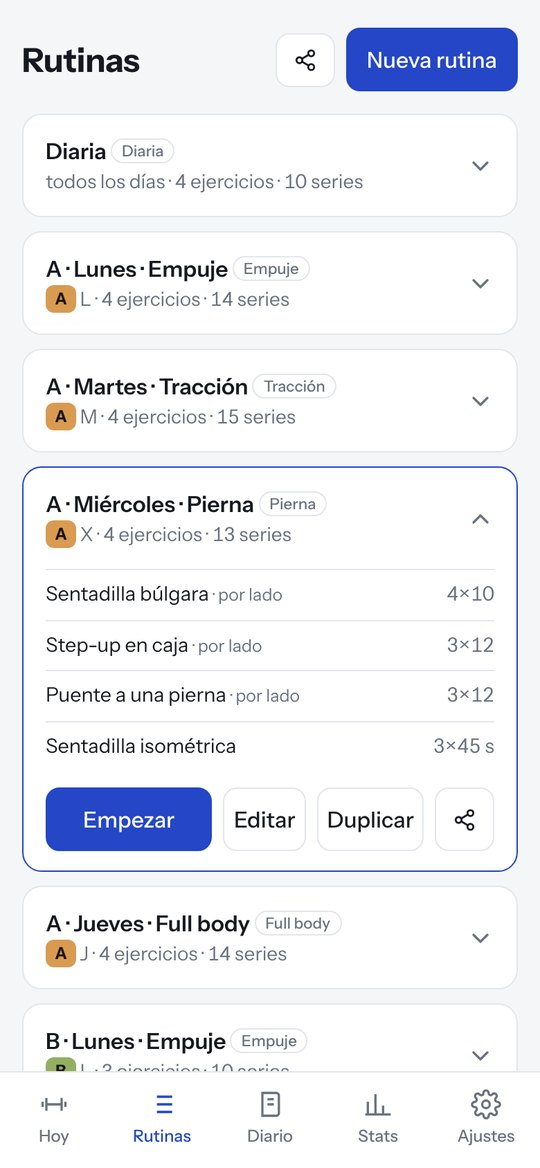
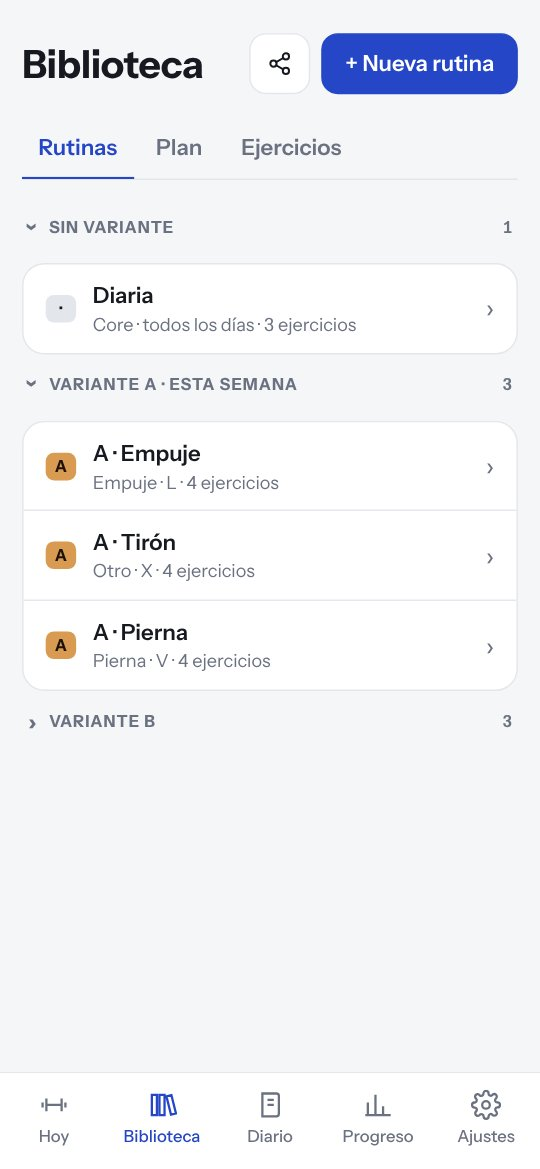
3.0.0: README con capturas nuevas y CHANGELOG con fecha
Capturas con datos de ejemplo (diseño 3.0) y textos de Hoy, Entrenar, Diario y
Progreso al día.

Hecha con IA · probada por humanos.

diff --git a/README.md b/README.md
@@ -2,7 +2,7 @@
 
 **Castellano** · [English](#english)
 
-<p align="center"><img src="capturas/portada.jpg" alt="Usus: Hoy, cuenta atrás, Diario y Estadísticas" width="100%"></p>
+<p align="center"><img src="capturas/portada.jpg" alt="Usus: Hoy, cuenta atrás, Diario y Progreso" width="100%"></p>
 
 **Usus** (latín: *práctica, hábito*) es una app para registrar tus entrenamientos y tus hábitos desde el móvil. Pensada para calistenia y entrenamiento en casa, sirve para cualquier rutina de series y repeticiones.
 
@@ -39,13 +39,13 @@ Para probar la beta con tus datos, exporta una copia en la versión normal e imp
 
 ## Cómo funciona
 
-- **Rutinas.** Creas tus rutinas con sus ejercicios, series y repeticiones o tiempo. Puedes marcar ejercicios «por lado», poner lastre y un descanso propio a cada uno. Si quieres, las ordenas por secciones (calentamiento, principal, core, vuelta a la calma) y agrupas ejercicios en superseries o circuitos. En el ordenador o la tablet hay un **modo edición para pantalla grande**: cada ejercicio en una fila y el catálogo al lado. Cada rutina se puede imprimir o guardar en PDF: una hoja por ejercicio para seguir su progresión, o la rutina entera con varias sesiones.
+- **Biblioteca: rutinas.** Creas tus rutinas con sus ejercicios, series y repeticiones o tiempo. Puedes marcar ejercicios «por lado», poner lastre y un descanso propio a cada uno. Si quieres, las ordenas por secciones (calentamiento, principal, core, vuelta a la calma) y agrupas ejercicios en superseries o circuitos. En el ordenador o la tablet hay un **modo edición para pantalla grande**: cada ejercicio en una fila y el catálogo al lado. Cada rutina se puede imprimir o guardar en PDF: una hoja por ejercicio para seguir su progresión, o la rutina entera con varias sesiones.
 - **Ejercicios** *(opcional).* Un catálogo de ejercicios de calistenia, cada uno con su ficha: para qué sirve, cómo se hace, errores típicos, material necesario y progresión, del más fácil al más difícil. Se elige ejercicio al crear la rutina y se ve la ficha en cualquier momento, también entrenando.
 - **Progresión.** Al terminar una sesión, Usus te propone pasar al siguiente ejercicio cuando dominas el actual, o volver al anterior si te está costando demasiado. Siempre es una propuesta: decides tú.
-- **Hoy.** Te dice qué toca cada día. Con un plan de progresión, Usus rota las variantes de tus rutinas por semanas (A, B, C…), añade semanas de descarga y te avisa de lo pendiente. Si quieres, la subida de cada vuelta de variante se aplica sola, con aviso y opción de deshacer.
-- **Entrenar.** Un ejercicio por pantalla. Las series por tiempo y los descansos tienen cuenta atrás a pantalla completa con reglas sencillas (preparación, aviso final, cambio de lado y descansos), tres sonidos suaves (tic, inicio, fin), vibración o nada, y se pueden encadenar solas. La pantalla se mantiene encendida durante la sesión. Puedes cambiar un ejercicio sobre la marcha, anotar cada uno y valorar el esfuerzo de la sesión (y, si quieres, las repeticiones en reserva de cada serie).
-- **Diario.** Sueño, suplementos, pasos, peso, actividad (caminar, correr, bici…) y notas. Solo se ve lo que has anotado; lo demás se añade con un toque.
-- **Progreso.** Constancia, récords, progreso por ejercicio, equilibrio entre lados y hábitos, en bloques que puedes ordenar u ocultar. Los días con notas llevan un punto: tócalo y ves por qué (no entrenaste, molestias, un cambio de ejercicio…).
+- **Hoy.** Te dice qué toca. Con un plan de progresión (Biblioteca → Plan), Usus rota las variantes de tus rutinas (A, B, C…) **en orden**: toca la siguiente sesión que falte, sea el día que sea, así que si empiezas un domingo o te saltas un día, se recupera. Añade semanas de descarga, se puede pausar una o varias semanas y, si quieres, la subida de cada vuelta de variante se aplica sola, con aviso y opción de deshacer.
+- **Entrenar.** Un ejercicio por pantalla, con el tiempo y el avance siempre arriba y un botón abajo con lo que toca: marcar la serie, empezar la cuenta atrás, pasar al siguiente ejercicio o terminar. Las series por tiempo y los descansos tienen cuenta atrás a pantalla completa con reglas sencillas (preparación, aviso final, cambio de lado y descansos), tres sonidos suaves (tic, inicio, fin), vibración o nada, y se pueden encadenar solas. La pantalla se mantiene encendida durante la sesión. Puedes cambiar un ejercicio sobre la marcha, anotar cada uno y valorar el esfuerzo de la sesión (y, si quieres, las repeticiones en reserva de cada serie).
+- **Diario.** Sueño, suplementos, pasos, peso, actividad (caminar, correr, bici…) y notas, un dato por fila. Solo se ve lo que has anotado; lo demás se añade con un toque.
+- **Progreso.** Un resumen con la semana, la constancia, los récords y el peso; y en detalle, progreso por ejercicio, equilibrio entre lados, cuerpo y hábitos, en bloques que puedes ordenar u ocultar. Los días con notas llevan un punto: tócalo y ves por qué (no entrenaste, molestias, un cambio de ejercicio…).
 - **Análisis con IA** *(opcional, externa).* Usus prepara un texto con tus datos y las instrucciones para que la IA que prefieras haga un informe con gráficos, listo para imprimir. Usus no envía nada: lo copias o compartes tú.
 - **Perfiles.** Varias personas en el mismo móvil, cada una con sus datos, ajustes y copia de seguridad.
 - **Ciclo** *(opcional, en perfiles de mujer).* Registro de la regla con una estimación aproximada de la próxima. No es un anticonceptivo ni un diagnóstico.
@@ -53,22 +53,22 @@ Para probar la beta con tus datos, exporta una copia en la versión normal e imp
 
 <table>
 <tr>
-<td align="center" width="25%"><img src="capturas/02-rutinas.jpg" alt="Rutinas"><br><sub>Rutinas</sub></td>
-<td align="center" width="25%"><img src="capturas/03-sesion.jpg" alt="Sesión"><br><sub>Sesión</sub></td>
-<td align="center" width="25%"><img src="capturas/07-stats-entreno.jpg" alt="Constancia y progreso"><br><sub>Constancia y progreso</sub></td>
-<td align="center" width="25%"><img src="capturas/08-stats-habitos.jpg" alt="Hábitos"><br><sub>Hábitos</sub></td>
+<td align="center" width="25%"><img src="capturas/02-rutinas.jpg" alt="Biblioteca"><br><sub>Biblioteca</sub></td>
+<td align="center" width="25%"><img src="capturas/04-plan.jpg" alt="Plan en orden"><br><sub>Plan en orden</sub></td>
+<td align="center" width="25%"><img src="capturas/03-sesion.jpg" alt="Entrenando"><br><sub>Entrenando</sub></td>
+<td align="center" width="25%"><img src="capturas/14-cuenta-atras.jpg" alt="Cuenta atrás"><br><sub>Cuenta atrás</sub></td>
 </tr>
 <tr>
-<td align="center"><img src="capturas/09-compartir.jpg" alt="Compartir un entreno"><br><sub>Compartir un entreno</sub></td>
-<td align="center"><img src="capturas/10-perfiles.jpg" alt="Perfiles"><br><sub>Perfiles</sub></td>
-<td align="center"><img src="capturas/11-ciclo-hoy.jpg" alt="Ciclo"><br><sub>Ciclo (opcional)</sub></td>
+<td align="center"><img src="capturas/06-progreso.jpg" alt="Progreso"><br><sub>Progreso</sub></td>
+<td align="center"><img src="capturas/07-stats-entreno.jpg" alt="Constancia y ejercicios"><br><sub>Constancia y ejercicios</sub></td>
+<td align="center"><img src="capturas/08-stats-habitos.jpg" alt="Hábitos"><br><sub>Hábitos</sub></td>
 <td align="center"><img src="capturas/05-diario.jpg" alt="Diario"><br><sub>Diario</sub></td>
 </tr>
 <tr>
-<td align="center"><img src="capturas/12-ejercicios.jpg" alt="Catálogo de ejercicios"><br><sub>Ejercicios (opcional)</sub></td>
+<td align="center"><img src="capturas/12-ejercicios.jpg" alt="Ejercicios (opcional)"><br><sub>Ejercicios (opcional)</sub></td>
 <td align="center"><img src="capturas/13-ficha.jpg" alt="Ficha y progresión"><br><sub>Ficha y progresión</sub></td>
-<td align="center"><img src="capturas/14-progresion.jpg" alt="Propuesta al terminar"><br><sub>Propuesta al terminar</sub></td>
-<td align="center"><img src="capturas/15-vincular.jpg" alt="Vincular tus ejercicios"><br><sub>Vincular tus ejercicios</sub></td>
+<td align="center"><img src="capturas/11-ciclo-hoy.jpg" alt="Ciclo (opcional)"><br><sub>Ciclo (opcional)</sub></td>
+<td align="center"><img src="capturas/10-ajustes.jpg" alt="Ajustes"><br><sub>Ajustes</sub></td>
 </tr>
 </table>
 
@@ -138,13 +138,13 @@ To try the beta with your data, export a backup in the regular version and impor
 
 ### How it works
 
-- **Routines.** Build routines with exercises, sets and reps or time. Mark exercises as “per side”, add weight and set a rest time for each one. If you like, split them into sections (warm-up, main, core, cool-down) and group exercises into supersets or circuits. On a computer or tablet there's an **edit mode for large screens**: one row per exercise and the catalogue alongside. Any routine can be printed or saved as PDF: one sheet per exercise to track its progress, or the whole routine across several sessions.
+- **Library: routines.** Build routines with exercises, sets and reps or time. Mark exercises as “per side”, add weight and set a rest time for each one. If you like, split them into sections (warm-up, main, core, cool-down) and group exercises into supersets or circuits. On a computer or tablet there's an **edit mode for large screens**: one row per exercise and the catalogue alongside. Any routine can be printed or saved as PDF: one sheet per exercise to track its progress, or the whole routine across several sessions.
 - **Exercises** *(optional).* A catalogue of calisthenics exercises, each with its own card: what it's for, how to do it, common mistakes, equipment needed and progression, from easiest to hardest. Pick exercises when building a routine and check the card at any time, even mid-workout.
 - **Progression.** After a session, Usus suggests moving on to the next exercise once you've mastered the current one, or going back to the previous one if it's too hard for now. It's always a suggestion: you decide.
-- **Today.** Shows what's on each day. With a progression plan, Usus rotates your routine variants week by week (A, B, C…), adds deload weeks and keeps track of what's pending. If you like, the increase each time a variant comes back is applied automatically, with a notice and an undo option.
-- **Train.** One exercise per screen. Timed sets and rests get a full-screen countdown with simple rules (get-ready, final warning, side switch and rests), three soft sounds (tick, start, end), vibration or nothing, and can chain automatically. The screen stays on during the session. Swap an exercise on the fly, add a note to each one and rate the session's effort (and, if you like, the reps in reserve of each set).
-- **Diary.** Sleep, supplements, steps, weight, activity (walking, running, cycling…) and notes. Only what you logged is shown; add the rest with one tap.
-- **Progress.** Consistency, PRs, progress per exercise, left/right balance and habits, in blocks you can reorder or hide. Days with notes get a dot: tap it to see why (you skipped training, aches, a swapped exercise…).
+- **Today.** Shows what’s next. With a progression plan (Library → Plan), Usus rotates your routine variants (A, B, C…) **in order**: the next missing session is up, whatever the day, so starting on a Sunday or skipping a day is fine. It adds deload weeks, can be paused for one or more weeks and, if you like, the increase each time a variant comes back is applied automatically, with a notice and an undo option.
+- **Train.** One exercise per screen, with time and progress always at the top and a button at the bottom for what’s next: mark the set, start the countdown, move to the next exercise or finish. Timed sets and rests get a full-screen countdown with simple rules (get-ready, final warning, side switch and rests), three soft sounds (tick, start, end), vibration or nothing, and can chain automatically. The screen stays on during the session. Swap an exercise on the fly, add a note to each one and rate the session's effort (and, if you like, the reps in reserve of each set).
+- **Diary.** Sleep, supplements, steps, weight, activity (walking, running, cycling…) and notes, one item per row. Only what you logged is shown; add the rest with one tap.
+- **Progress.** A summary with the week, consistency, PRs and weight; and in detail, progress per exercise, left/right balance, body and habits, in blocks you can reorder or hide. Days with notes get a dot: tap it to see why (you skipped training, aches, a swapped exercise…).
 - **AI analysis** *(optional, external).* Usus prepares a text with your data and instructions for the AI of your choice to write a report with charts, ready to print. Usus sends nothing: you copy or share it yourself.
 - **Profiles.** Several people on the same phone, each with their own data, settings and backup.
 - **Cycle** *(optional, on women's profiles).* Period log with an approximate estimate of the next one. Not a contraceptive method or a diagnosis.
@@ -152,22 +152,22 @@ To try the beta with your data, export a backup in the regular version and impor
 
 <table>
 <tr>
-<td align="center" width="25%"><img src="capturas/02-rutinas.jpg" alt="Routines"><br><sub>Routines</sub></td>
-<td align="center" width="25%"><img src="capturas/03-sesion.jpg" alt="Session"><br><sub>Session</sub></td>
-<td align="center" width="25%"><img src="capturas/07-stats-entreno.jpg" alt="Consistency and progress"><br><sub>Consistency and progress</sub></td>
-<td align="center" width="25%"><img src="capturas/08-stats-habitos.jpg" alt="Habits"><br><sub>Habits</sub></td>
+<td align="center" width="25%"><img src="capturas/02-rutinas.jpg" alt="Library"><br><sub>Library</sub></td>
+<td align="center" width="25%"><img src="capturas/04-plan.jpg" alt="Plan in order"><br><sub>Plan in order</sub></td>
+<td align="center" width="25%"><img src="capturas/03-sesion.jpg" alt="Training"><br><sub>Training</sub></td>
+<td align="center" width="25%"><img src="capturas/14-cuenta-atras.jpg" alt="Countdown"><br><sub>Countdown</sub></td>
 </tr>
 <tr>
-<td align="center"><img src="capturas/09-compartir.jpg" alt="Share a workout"><br><sub>Share a workout</sub></td>
-<td align="center"><img src="capturas/10-perfiles.jpg" alt="Profiles"><br><sub>Profiles</sub></td>
-<td align="center"><img src="capturas/11-ciclo-hoy.jpg" alt="Cycle"><br><sub>Cycle (optional)</sub></td>
+<td align="center"><img src="capturas/06-progreso.jpg" alt="Progress"><br><sub>Progress</sub></td>
+<td align="center"><img src="capturas/07-stats-entreno.jpg" alt="Consistency and exercises"><br><sub>Consistency and exercises</sub></td>
+<td align="center"><img src="capturas/08-stats-habitos.jpg" alt="Habits"><br><sub>Habits</sub></td>
 <td align="center"><img src="capturas/05-diario.jpg" alt="Diary"><br><sub>Diary</sub></td>
 </tr>
 <tr>
-<td align="center"><img src="capturas/12-ejercicios.jpg" alt="Exercise catalogue"><br><sub>Exercises (optional)</sub></td>
+<td align="center"><img src="capturas/12-ejercicios.jpg" alt="Exercises (optional)"><br><sub>Exercises (optional)</sub></td>
 <td align="center"><img src="capturas/13-ficha.jpg" alt="Card and progression"><br><sub>Card and progression</sub></td>
-<td align="center"><img src="capturas/14-progresion.jpg" alt="Suggestion after a session"><br><sub>Suggestion after a session</sub></td>
-<td align="center"><img src="capturas/15-vincular.jpg" alt="Link your exercises"><br><sub>Link your exercises</sub></td>
+<td align="center"><img src="capturas/11-ciclo-hoy.jpg" alt="Cycle (optional)"><br><sub>Cycle (optional)</sub></td>
+<td align="center"><img src="capturas/10-ajustes.jpg" alt="Settings"><br><sub>Settings</sub></td>
 </tr>
 </table>
 

diff --git a/CHANGELOG.md b/CHANGELOG.md
@@ -4,7 +4,7 @@ Todas las versiones de Usus. Formato basado en [Keep a Changelog](https://keepac
 
 **Castellano** · [Català](#català) · [English](#english)
 
-## [3.0.0] — en pruebas (beta)
+## [3.0.0] — 2026-10-20
 
 Rediseño: estructura nueva, componentes unificados y glosario único (es/ca/en). Los datos no cambian: las copias de la 2.x se importan igual.
 
@@ -249,7 +249,7 @@ Primera versión pública.
 
 ## Català
 
-### [3.0.0] — en proves (beta)
+### [3.0.0] — 2026-10-20
 - Nova estructura: Avui · Biblioteca · Diari · Progrés · Ajustos. Biblioteca aplega Rutines, Pla i Exercicis; Stats passa a dir-se Progrés.
 - Avui: el que toca, a dalt i amb un sol botó Comença; accessos ràpids a una altra rutina, sessió lliure i activitat; els avisos, junts a «Pendent».
 - Rutines agrupades per variant. Cada rutina s'obre a la seva pantalla (a l'ordinador, al costat de la llista) amb Comença, Edita, Imprimeix, Comparteix i Duplica.
@@ -334,7 +334,7 @@ Primera versió pública: rutines amb sèries per repeticions o per temps, compt
 
 ## English
 
-### [3.0.0] — in testing (beta)
+### [3.0.0] — 2026-10-20
 - New layout: Today · Library · Diary · Progress · Settings. Library brings together Routines, Plan and Exercises; Stats is now called Progress.
 - Today: what's on, at the top with a single Start button; shortcuts to another routine, a free session and an activity; reminders together under “To do”.
 - Routines grouped by variant. Each routine opens on its own screen (on a computer, next to the list) with Start, Edit, Print, Share and Duplicate.
